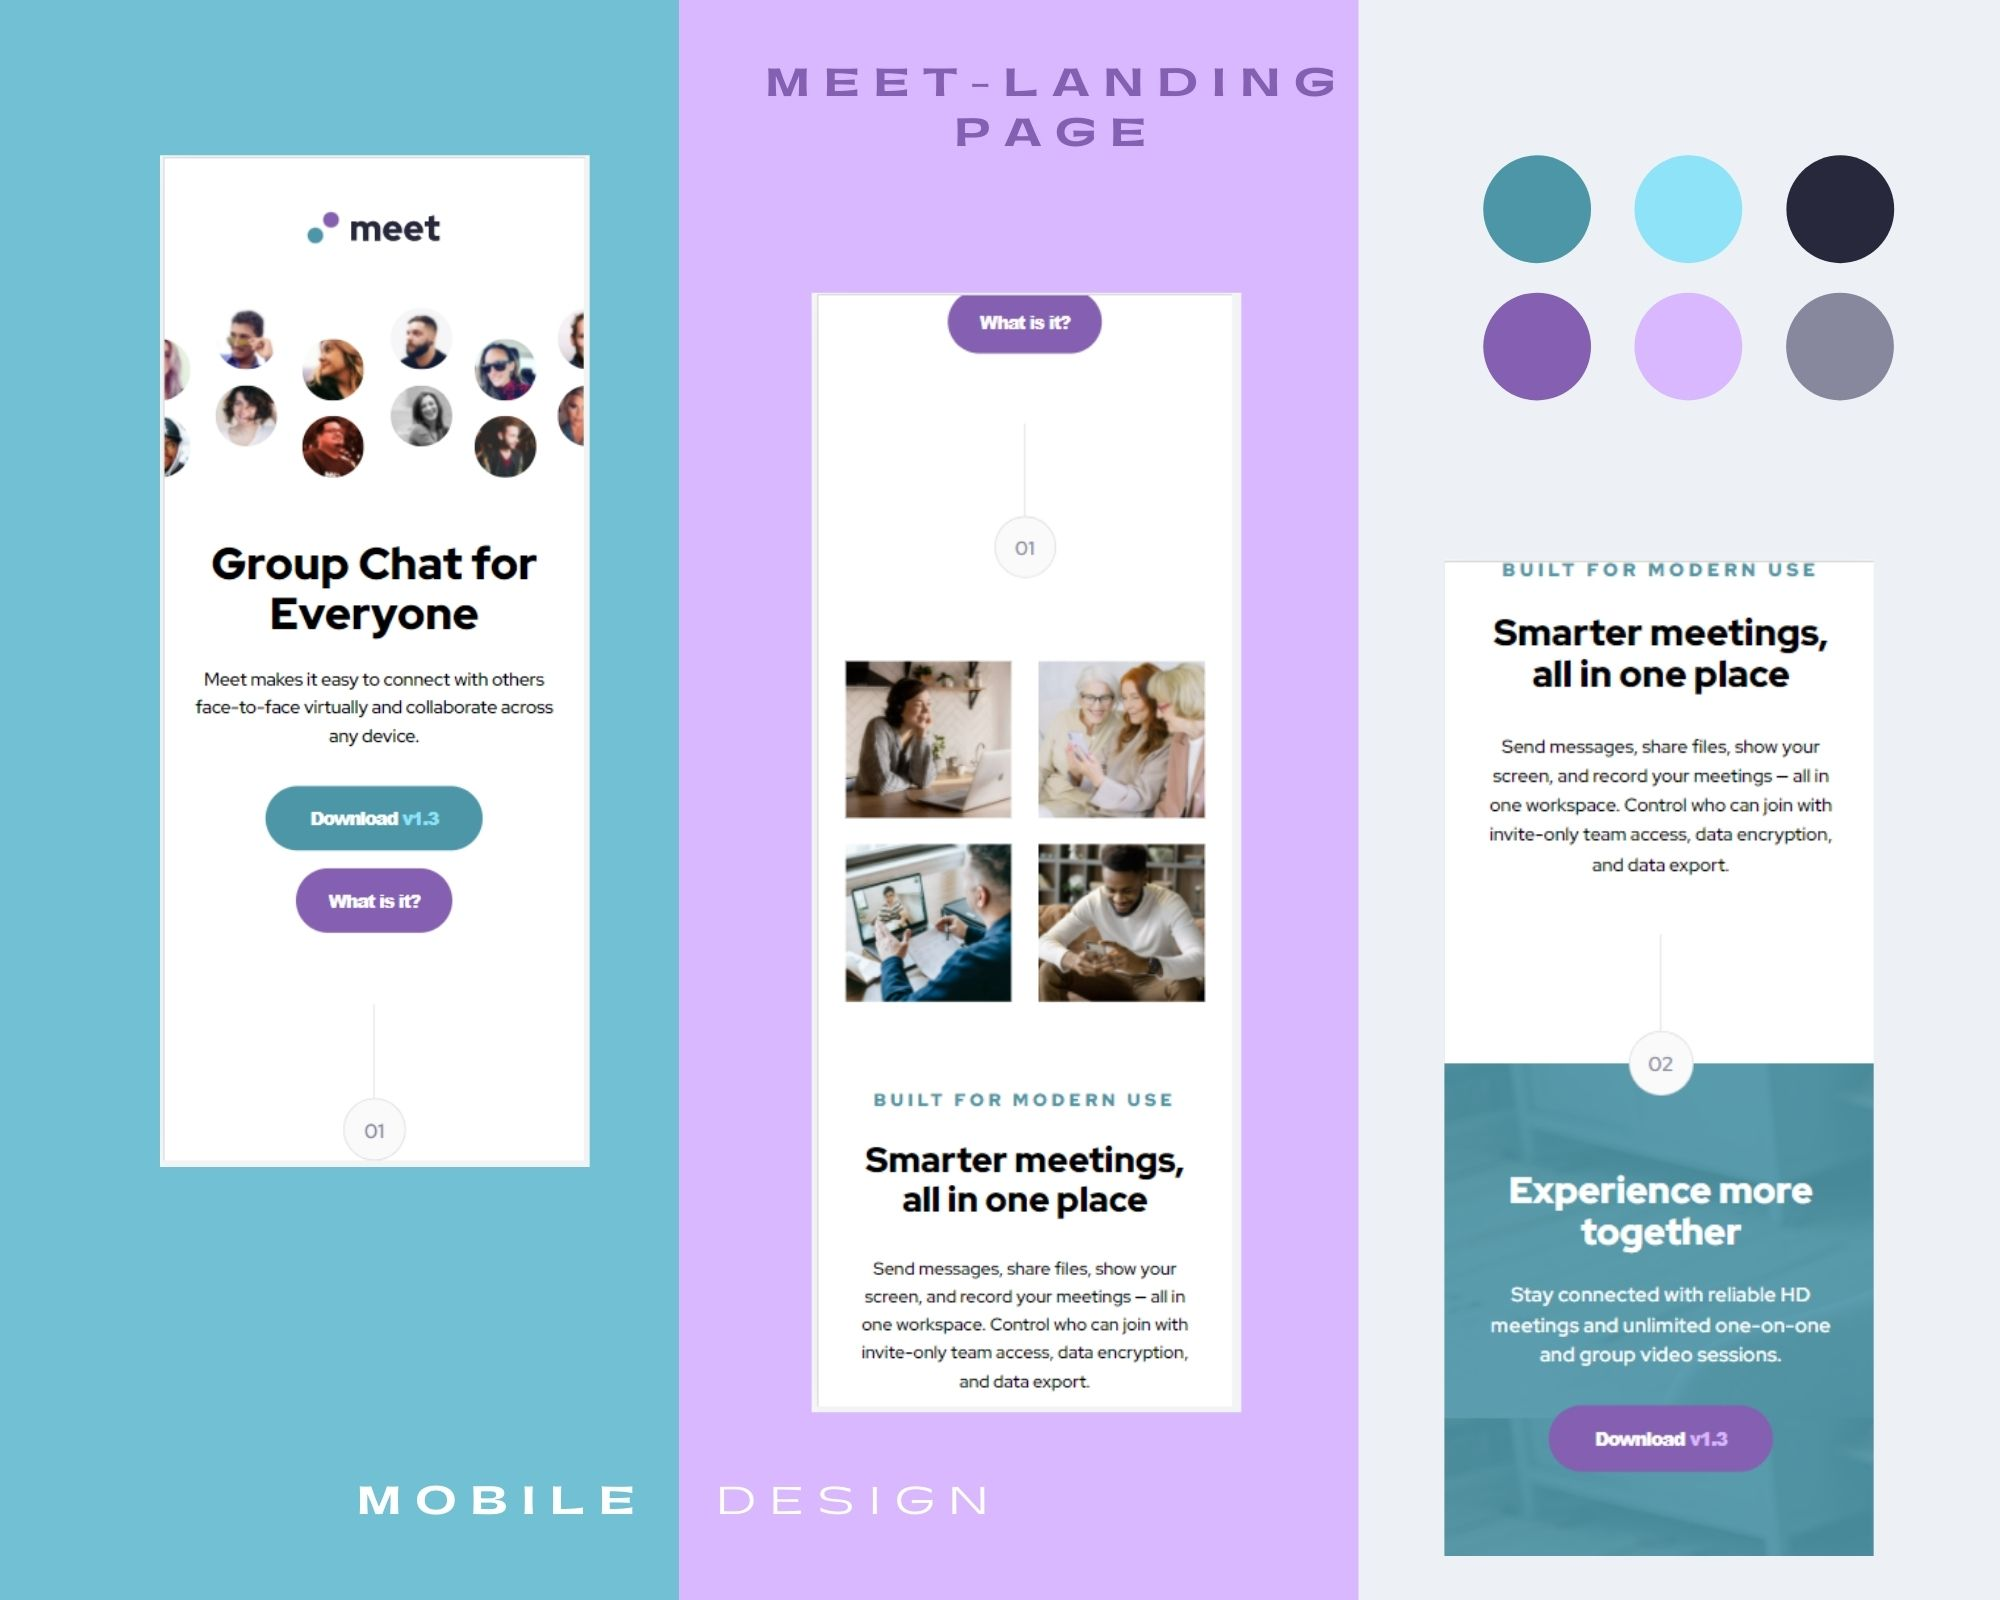
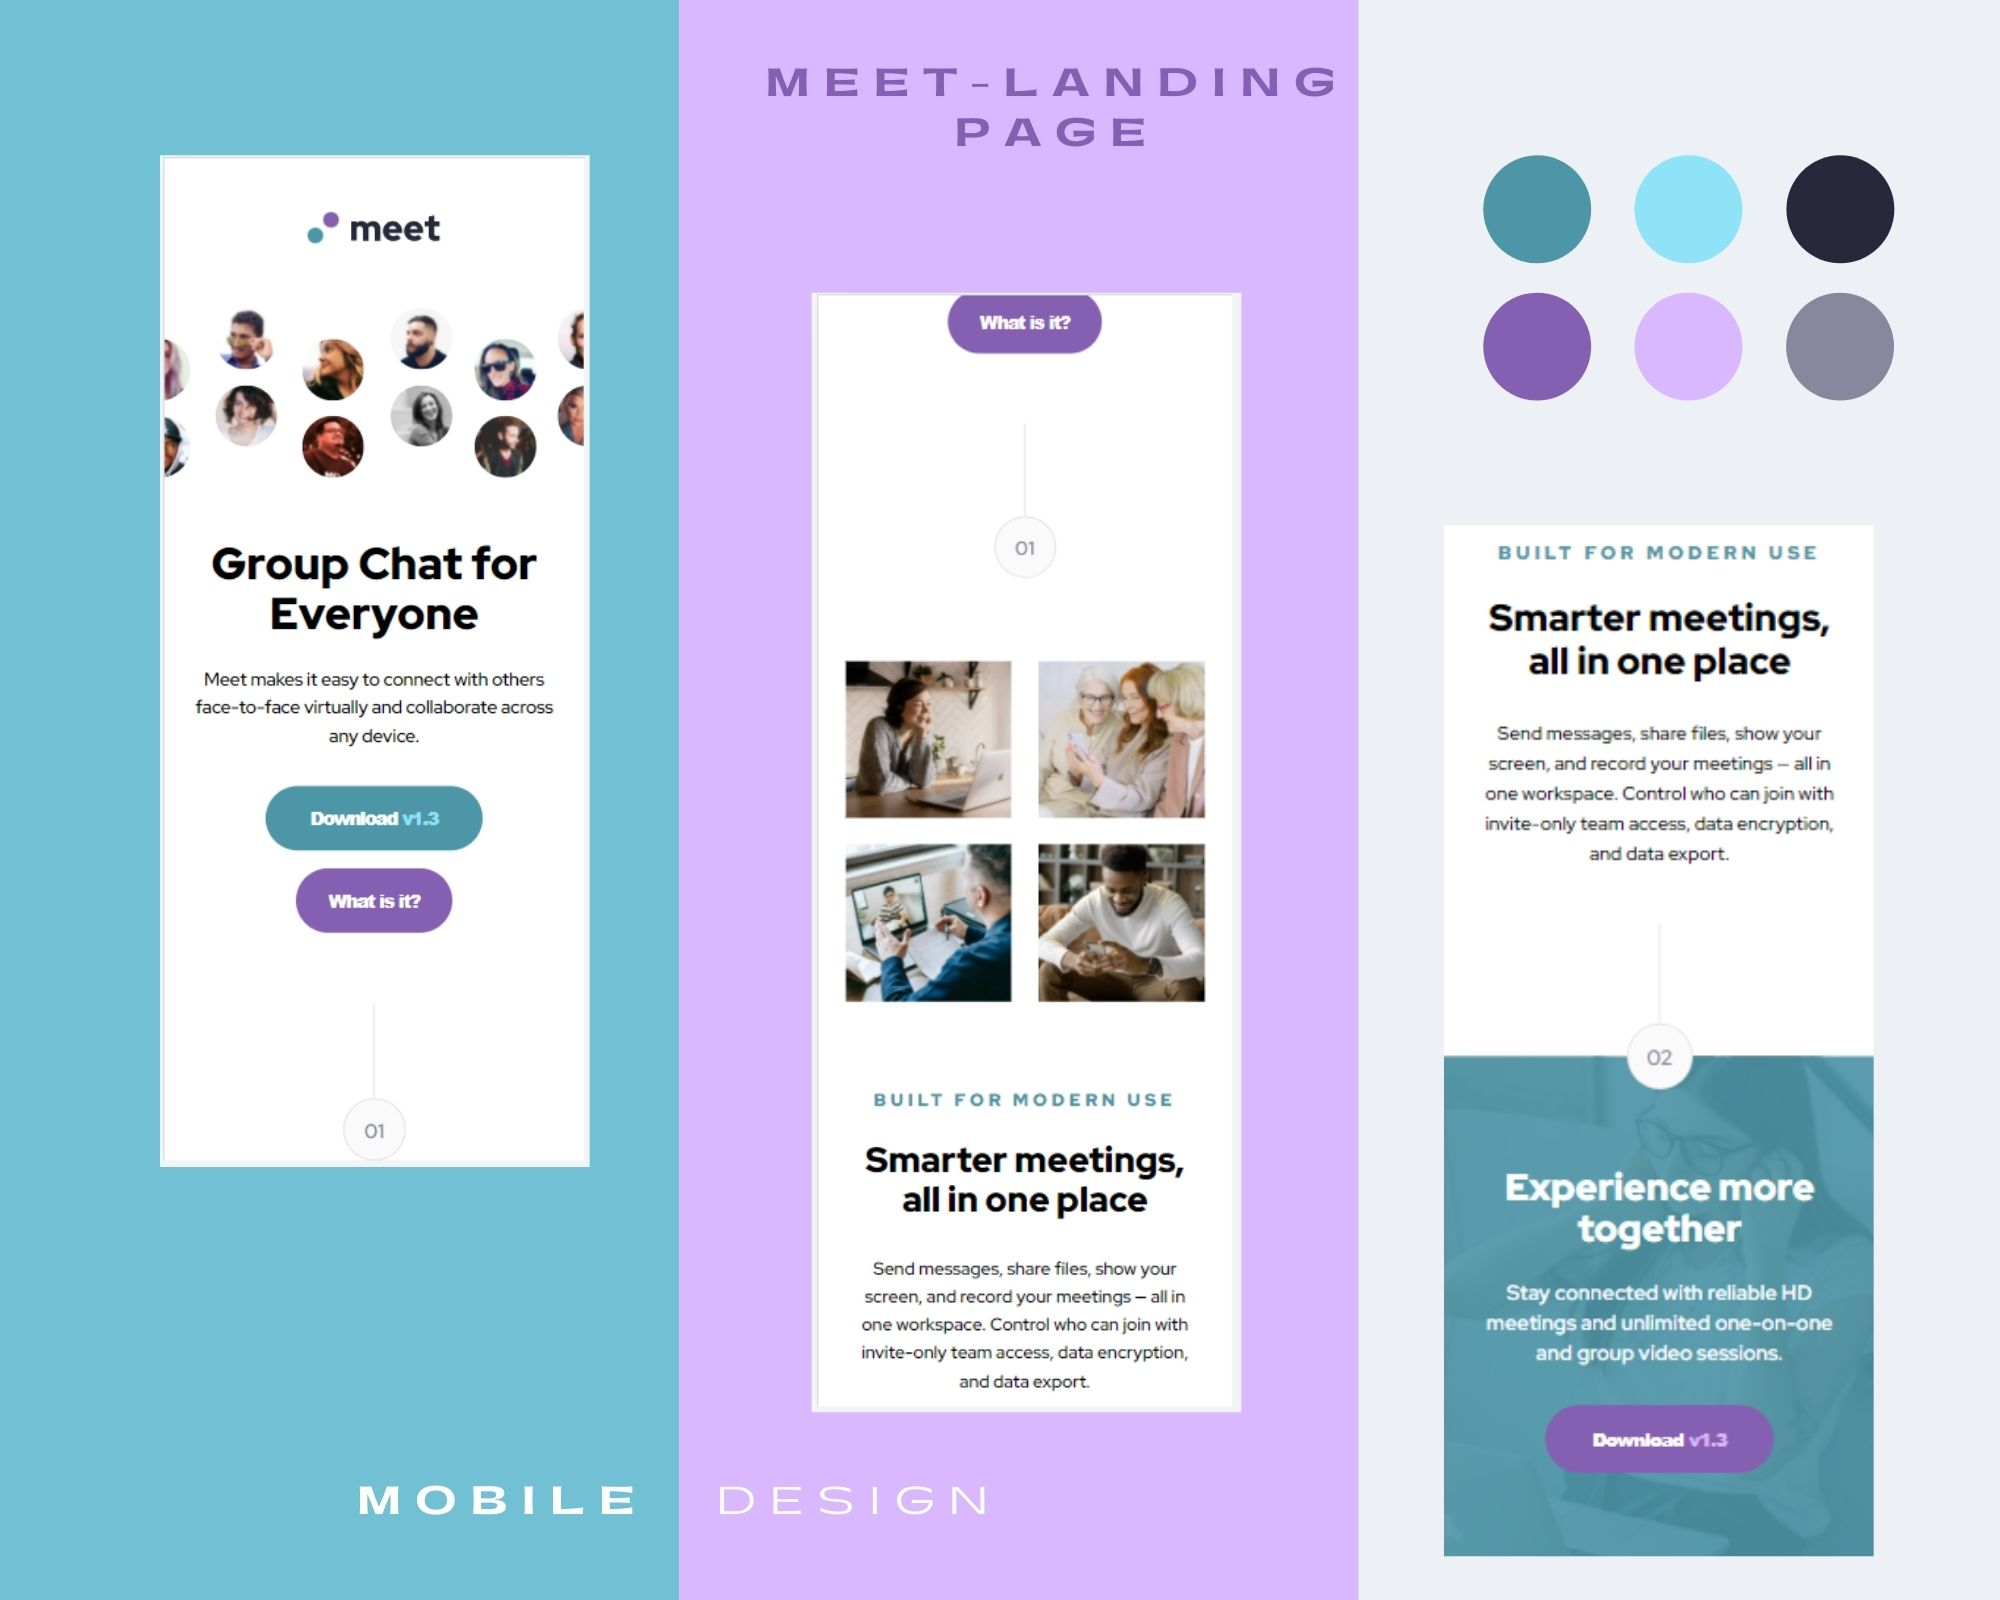
Footer background-images style
Apply background Images at tablet and mobile design

Changed region(s): [[0.744, 0.3438, 0.93, 0.5625], [0.744, 0.7188, 0.93, 0.9062], [0.713, 0.6562, 0.93, 0.6875]]

diff --git a/style.css b/style.css
@@ -197,6 +197,8 @@ footer{
     top: -28px;
     width: 100%;
     background-image: url(./assets/desktop/image-footer.jpg);
+    background-position: top center;
+    background-size: cover;
     margin-bottom: -28px;
 }
 .footer__container{
@@ -290,6 +292,9 @@ footer{
     }
     /*End Main Container*/
     /*Start Footer*/
+    footer{        
+        background-image: url(./assets/tablet/image-footer.jpg);
+    }
     .footer__container{
         padding: 26px;
     }
@@ -388,6 +393,9 @@ footer{
     }    
     /*End Main Section*/
     /*Start Footer*/
+    footer{        
+        background-image: url(./assets/mobile/image-footer.jpg);        
+    }
     .footer__article{
         width: 100%;
         margin: 50px auto 0px auto;
